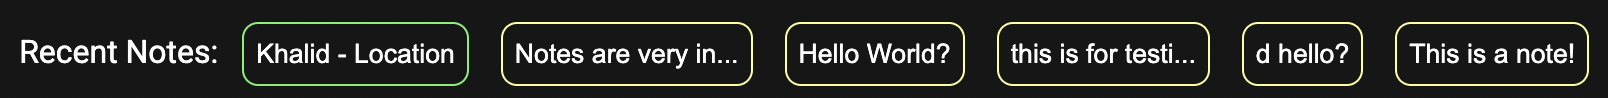
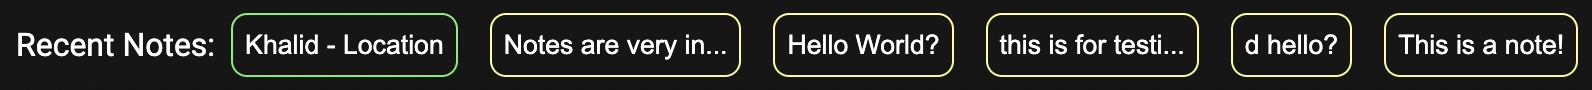
edited README images with new changes

Changed region(s): [[0.0, 0.1333, 1.0, 0.8889], [0.1231, 0.1333, 0.4617, 0.2]]

diff --git a/README.md b/README.md
@@ -5,7 +5,7 @@ Notes are stored in the browser's local storage (not sent to a cloud) and automa
 
 Users are able to edit their notes to add sections with various amounts of text. This text will be saved locally on their browsers.
 <br>
-<img src="resources/note.png" style="width: 40%; border-radius: 16px;"><br>
+<img src="resources/note.png" style="height: 320px; border-radius: 16px;"><br>
 
 Users are able to browse through their previous notes, read, and edit them through the bar at the bottom of the page.
 <br>
@@ -19,4 +19,4 @@ Users can also create new notes or delete the focused note using the buttons at 
 
 # Full Page Demo
 
-<img src="resources/screenshot.png" style="width: 100%; border-radius: 16px;"><br>
+<img src="resources/screenshot.png" style="height: 512px; border-radius: 16px;"><br>
